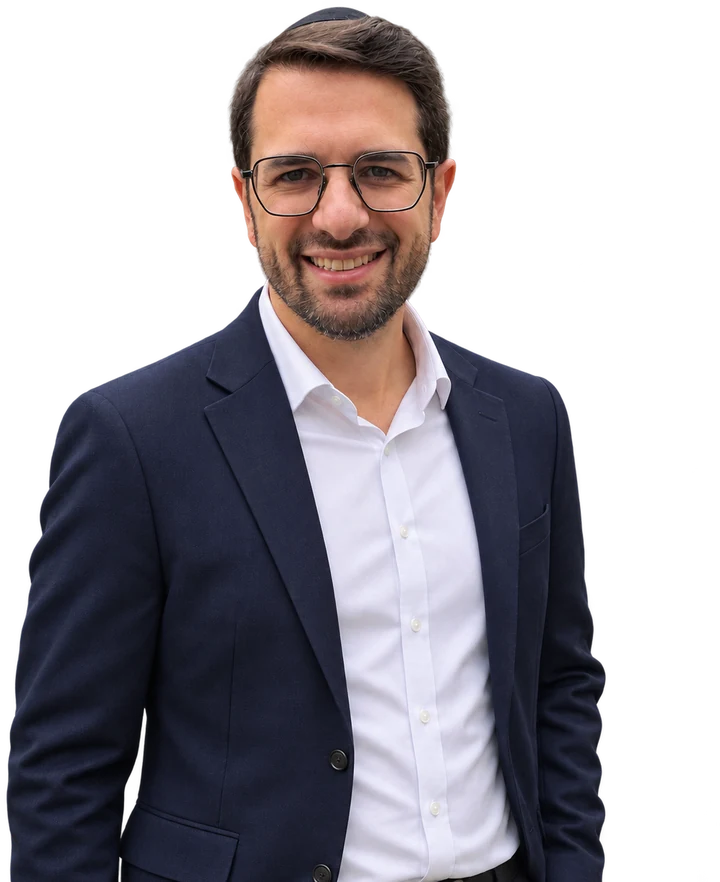
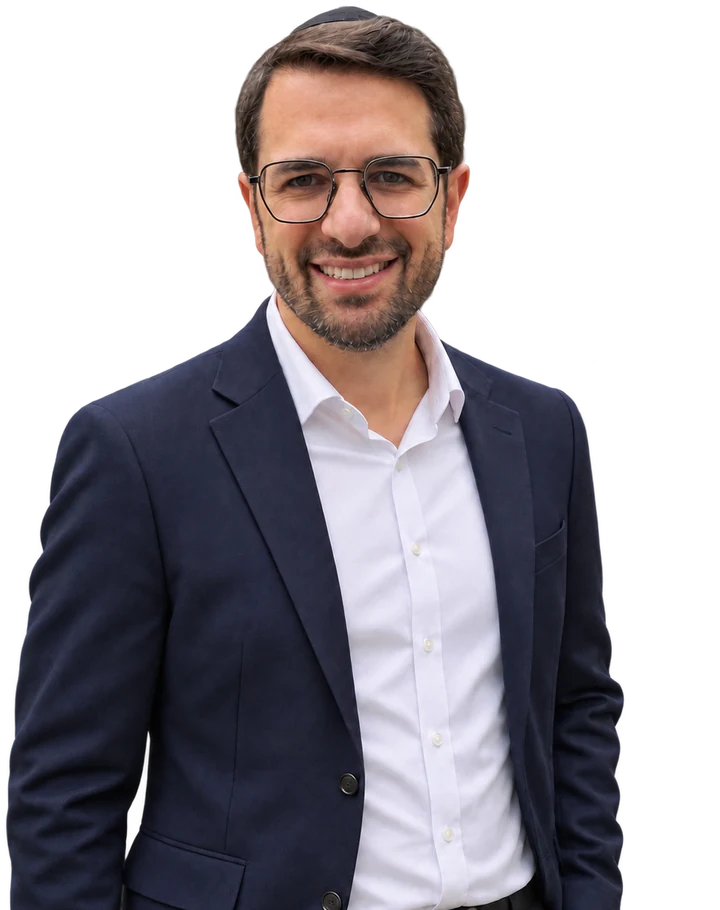
Update founder photo
Claude-Session: https://claude.ai/code/session_01FYJzmeUvJXERzmEtyd1SaB

diff --git a/about.html b/about.html
@@ -60,7 +60,7 @@
     <section class="about" id="founder">
       <div class="container about-grid">
         <div class="about-photo reveal">
-          <img src="images/yitzi.webp" alt="Yitzi Fellner, Founder and CEO of Reliable Office Services" width="720" height="882">
+          <img src="images/yitzi.webp" alt="Yitzi Fellner, Founder and CEO of Reliable Office Services" width="720" height="910">
         </div>
         <div class="reveal">
           <p class="eyebrow">A message from our founder</p>

diff --git a/tools/build.py b/tools/build.py
@@ -482,7 +482,7 @@ ABOUT_PAGE = (
     <section class="about" id="founder">
       <div class="container about-grid">
         <div class="about-photo reveal">
-          <img src="images/yitzi.webp" alt="Yitzi Fellner, Founder and CEO of Reliable Office Services" width="720" height="882">
+          <img src="images/yitzi.webp" alt="Yitzi Fellner, Founder and CEO of Reliable Office Services" width="720" height="910">
         </div>
         <div class="reveal">
           <p class="eyebrow">A message from our founder</p>
